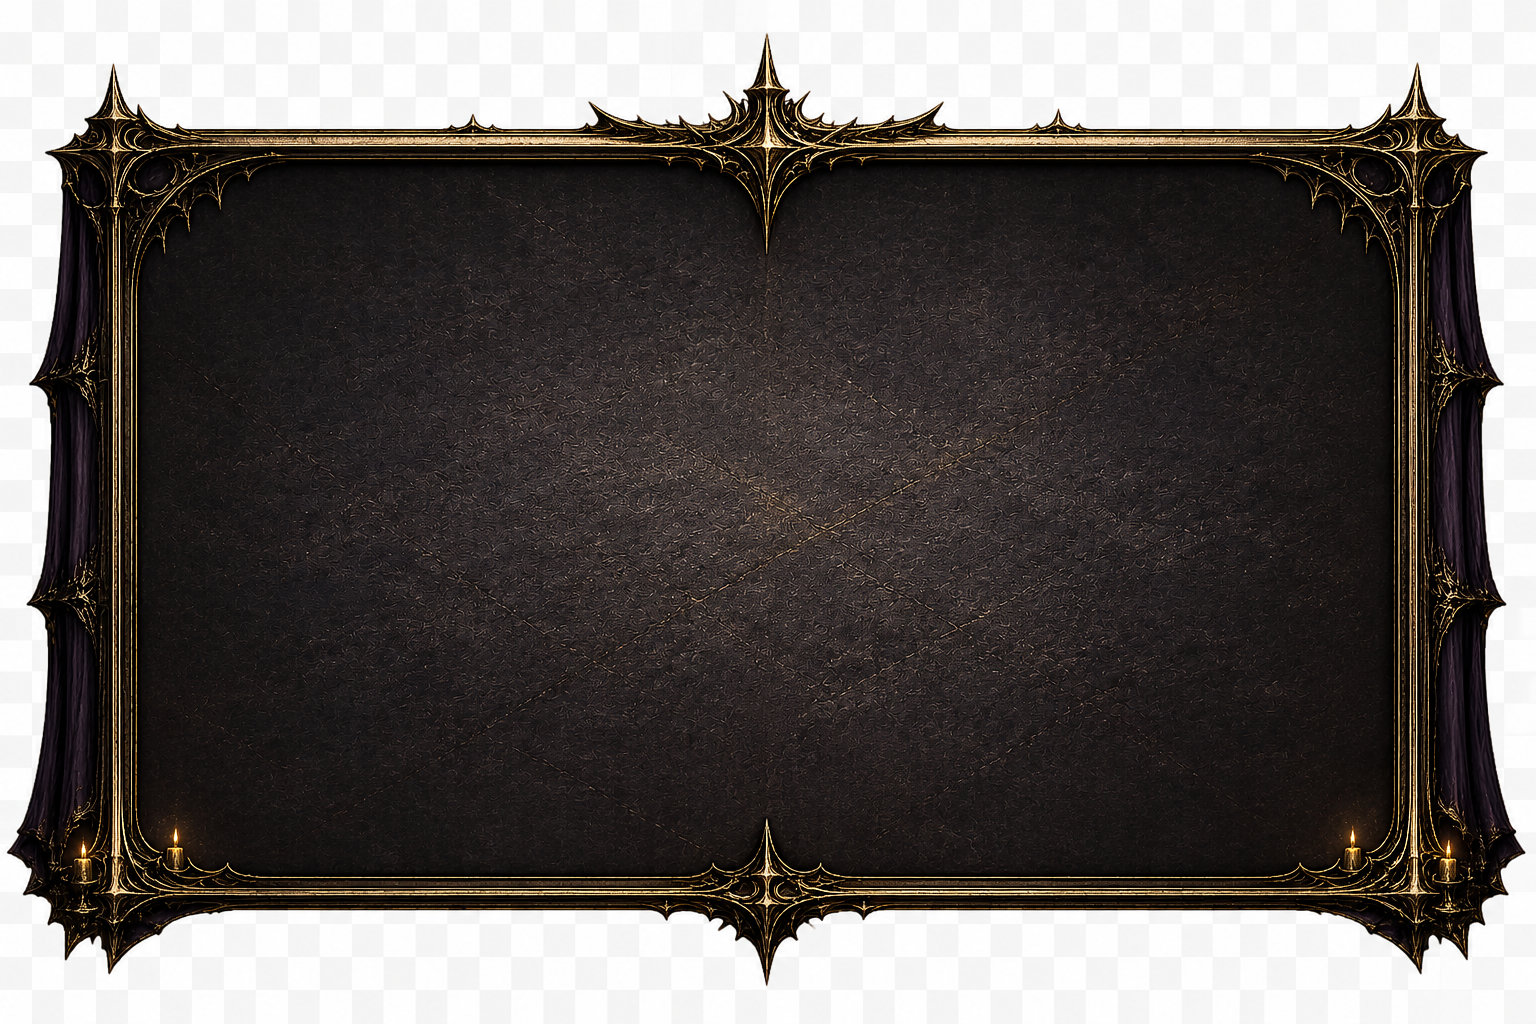
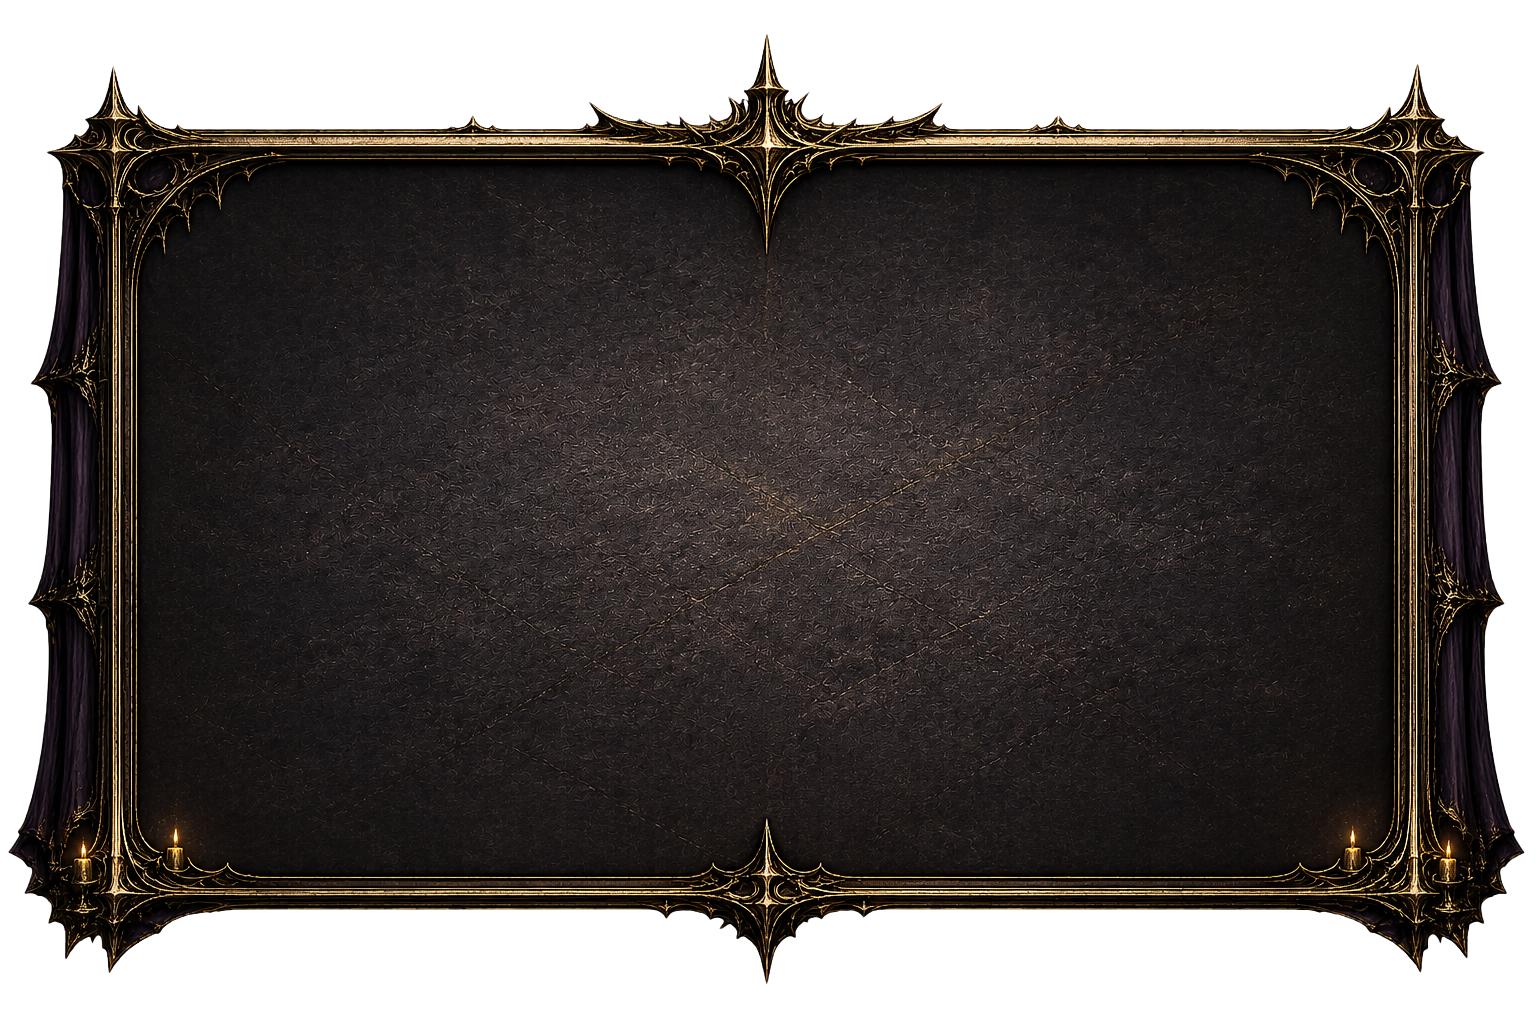
set gambar bg

diff --git a/core/src/main/java/com/fallenascendants/screen/deck/DeckBuilderScreen.java b/core/src/main/java/com/fallenascendants/screen/deck/DeckBuilderScreen.java
@@ -57,7 +57,7 @@ public class DeckBuilderScreen implements Screen {
             }
         });
 
-        backgroundTexture = new Texture(Gdx.files.internal("background/background_lobby/UpgradeBackground.png"));
+        backgroundTexture = new Texture(Gdx.files.internal("background/background_lobby/DeckBuilderBackground.png"));
         backgroundTexture.setFilter(Texture.TextureFilter.Linear, Texture.TextureFilter.Linear);
         Image bg = new Image(backgroundTexture);
         bg.setSize(1280, 720);
